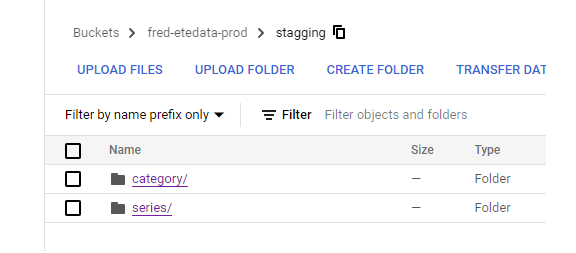
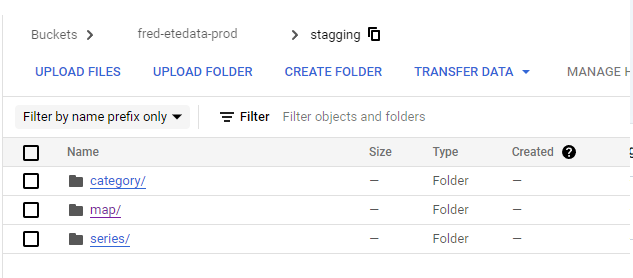
Fix typo and image

diff --git a/flows/config.py b/flows/config.py
@@ -102,15 +102,13 @@ class clean_df:
 class query_bq:
     query_getseriesPara = f'''
     SELECT distinct id FROM `{os.getenv("Gcp_Project_id")}.dbt_prod.stg_category`
-where parent_name  in ('Interest Rates','International Data','Money, Banking, & Finance','National Income & Product Accounts','Prices','National Accounts','Current Employment Statistics (Establishment Survey)','	
-Productivity & Costs','U.S. Trade & International Transactions','U.S. Regional Data') 
+where parent_name  in ('Interest Rates','International Data','Money, Banking, & Finance','National Income & Product Accounts','Prices','National Accounts','Current Employment Statistics (Establishment Survey)','	Productivity & Costs','U.S. Trade & International Transactions','U.S. Regional Data') 
 order by id
     '''
 
     query_getseriesPara_dev = f'''
-    SELECT distinct id FROM `{os.getenv("Gcp_Project_id")}.dbt_dev.stg_category`
-where parent_name  in ('Interest Rates','International Data','Money, Banking, & Finance','National Income & Product Accounts','Prices','National Accounts','Current Employment Statistics (Establishment Survey)','	
-Productivity & Costs','U.S. Trade & International Transactions','U.S. Regional Data') 
+    SELECT distinct id FROM `{os.getenv("Gcp_Project_id")}`.dbt_dev.stg_category`
+where parent_name  in ('Interest Rates','International Data','Money, Banking, & Finance','National Income & Product Accounts','Prices','National Accounts','Current Employment Statistics (Establishment Survey)',Productivity & Costs','U.S. Trade & International Transactions','U.S. Regional Data') 
 order by id
     '''
 

diff --git a/flows/DBT_job.py b/flows/DBT_job.py
@@ -34,13 +34,13 @@ def deploy(params):
     if schedule =='y':
         deployment = Deployment.build_from_flow(
             flow=flow_torun,
-            name=f"DBT-Daily-{target}",
+            name=f"DBT-transform-{target}",
             schedule=(CronSchedule(cron="0 7 5 * *"))
         )
     else:
         deployment = Deployment.build_from_flow(
             flow=flow_torun,
-            name=f"DBT-Daily-{target}"
+            name=f"DBT-transform-{target}"
         )
     deployment.apply()
     return None

diff --git a/flows/Fred_MapAPI.py b/flows/Fred_MapAPI.py
@@ -132,7 +132,7 @@ def main(version='initial'):
             list_df.append(dict_df)
             dict_df= {}
         df_map =  cleandata(list_df,para_seriesgroup)
-        max_val = df_map['date'].max()
+        max_val = df_map['date'].max().strftime('%Y-%m-%d')
         uppload_path =f'stagging/map/{current_date}/MapData_{para_seriesgroup}_{para_mindate}_{max_val}.parquet'
         bucket.blob(uppload_path).upload_from_string(df_map.to_parquet(), 'text/parquet')
         time.sleep(1)

diff --git a/flows/Fred_Series.py b/flows/Fred_Series.py
@@ -104,7 +104,6 @@ def main():
         result_id,count_data = getseriesid(id[0])
         all_list.extend(result_id)
         id_data[id[0]] = count_data
-        item +=1
 
     df_series = cleanseriesdf(all_list,id_data)
     uppload_path =f'stagging/series/{time_stamp}/SeriesData_{time_stamp}.parquet'
